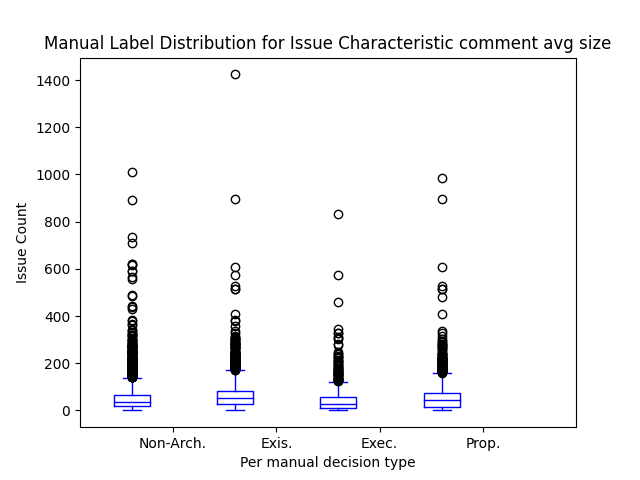
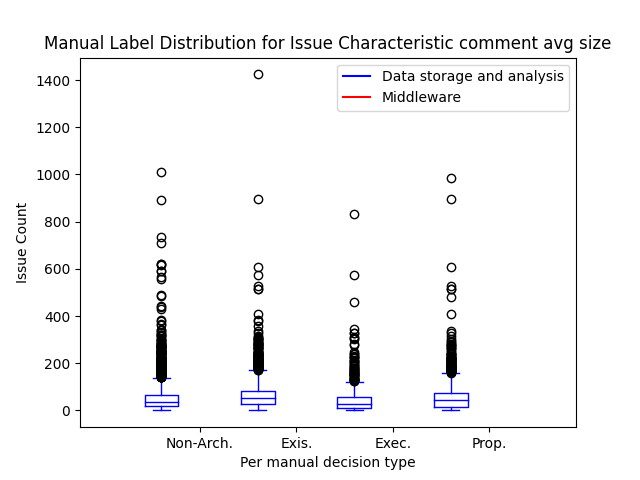
boxplots legends

diff --git a/util/charac_analysis/5_statistics.py b/util/charac_analysis/5_statistics.py
@@ -139,6 +139,16 @@ def box_charts():
         plt.xticks([x+1 for x in range(0, len(x_labels))], x_labels)
         ax.set_ylabel('Issue Count')
         ax.set_xlabel('Per manual decision type')
+
+        colours = []
+        for i in range(0, len(domains)):
+            col, = plt.plot([1,1], dom_colors[i])
+            colours.append((col, domains[i]))
+        cols, doms = zip(*colours)
+        plt.legend(cols, doms)
+        for col in cols:
+            col.set_visible(False)
+
         plt.title(f"Manual Label Distribution for Issue Characteristic {charac}")
         plt.savefig(f"figures/box_{charac}.png")
         plt.close()
